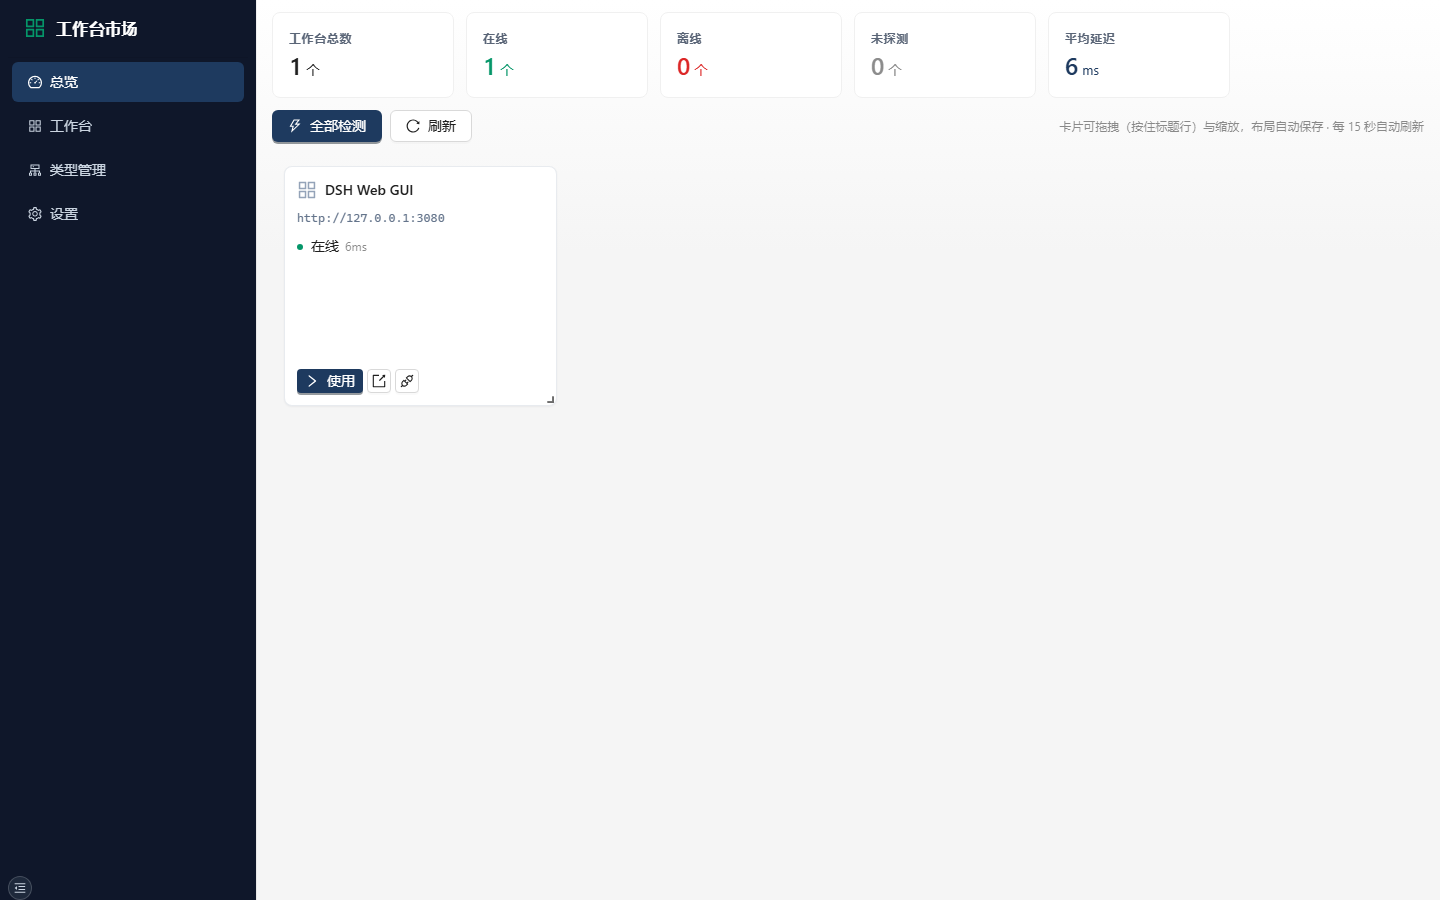
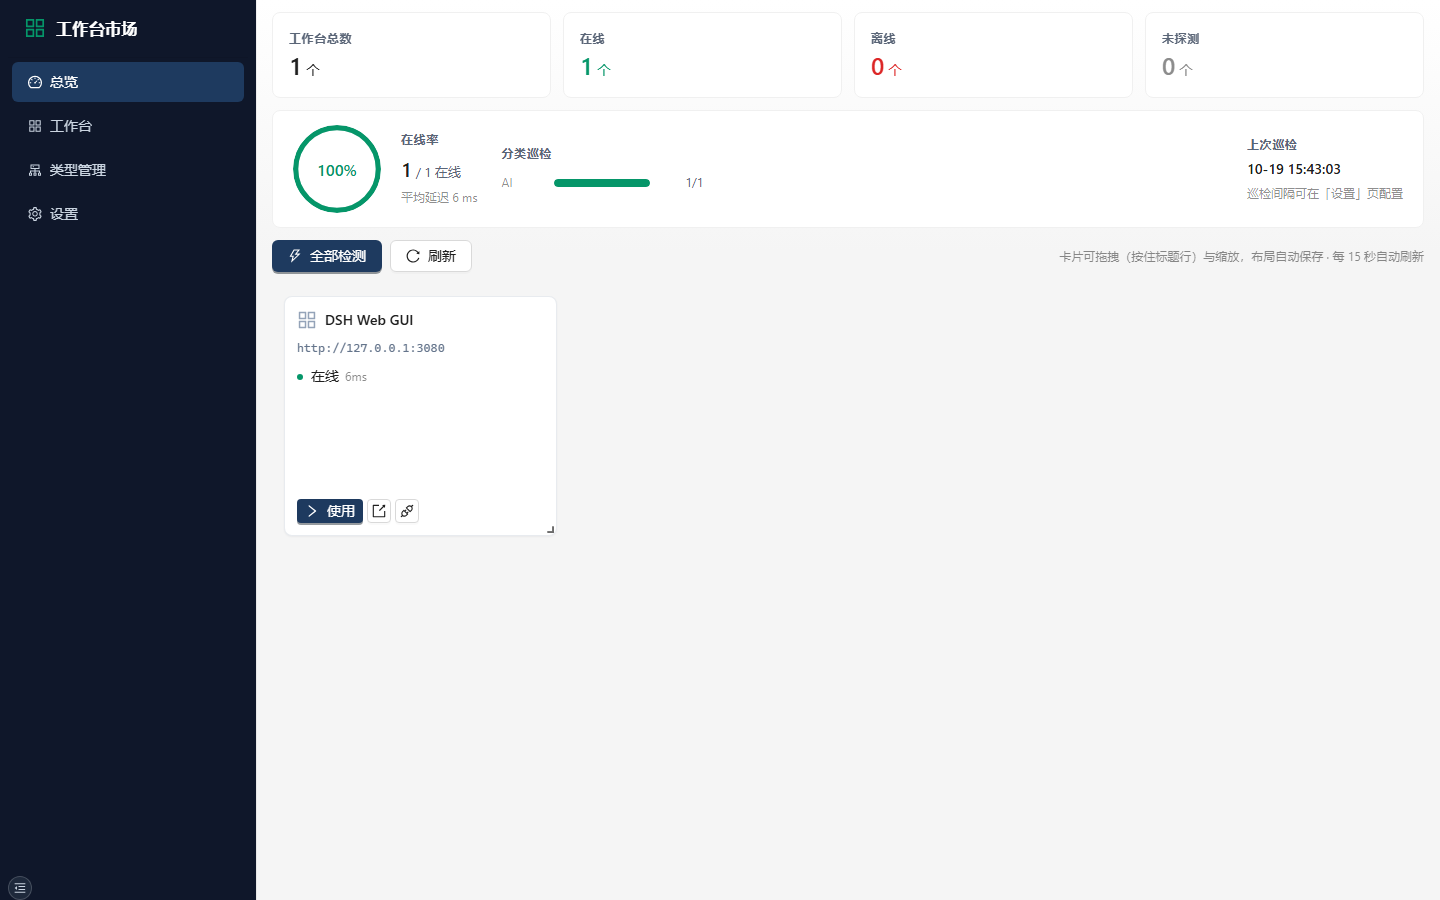
feat(dashboard): 总览页信息架构重构——统计卡可点击深链 + 全宽数据卡
- 4 张统计卡（总数/在线/离线/未探测）点击跳转 /market?status=up|down|unknown，
  role=button + 键盘 Enter/Space 可达 + :focus-visible 焦点环，悬停 emerald 描边
- 新增全宽数据卡：在线率 Progress 环 + 平均延迟 + 分类巡检 mini 进度条 + 上次巡检时间
- Market 支持 ?status= 深链参数初始化过滤（up/down/unknown 白名单）
- E2E 14/14 PASS；antd lint 0 告警

diff --git a/web/src/pages/Dashboard.tsx b/web/src/pages/Dashboard.tsx
@@ -1,7 +1,7 @@
 import { useMemo, useState } from 'react';
-import { Link } from 'react-router-dom';
+import { Link, useNavigate } from 'react-router-dom';
 import { useRequest } from 'ahooks';
-import { App, Button, Card, Col, Empty, Row, Space, Tag, Tooltip, Typography } from 'antd';
+import { App, Button, Card, Col, Empty, Flex, Progress, Row, Space, Tag, Tooltip, Typography } from 'antd';
 import { ApiOutlined, AppstoreOutlined, ExportOutlined, ReloadOutlined, RightOutlined, ThunderboltOutlined } from '@ant-design/icons';
 import { Responsive, WidthProvider } from 'react-grid-layout';
 import type { Layout, Layouts } from 'react-grid-layout';
@@ -9,7 +9,7 @@ import 'react-grid-layout/css/styles.css';
 import 'react-resizable/css/styles.css';
 import { api } from '../api';
 import type { Workbench } from '../types';
-import StatusBadge from '../components/StatusBadge';
+import StatusBadge, { fmtCheckedAt } from '../components/StatusBadge';
 
 const ResponsiveGridLayout = WidthProvider(Responsive);
 const LAYOUT_KEY = 'wm.dashboard.layouts.v2';
@@ -55,15 +55,13 @@ function reconcile(items: Workbench[], saved: Layouts | null): Layouts {
 
 export default function Dashboard() {
   const { message } = App.useApp();
+  const navigate = useNavigate();
   const [checking, setChecking] = useState(false);
   const [busyId, setBusyId] = useState<number | null>(null);
   const [savedLayouts, setSavedLayouts] = useState<Layouts | null>(() => loadSaved());
 
   const summary = useRequest(api.summary, { pollingInterval: 15000 });
-  const list = useRequest(() => api.listWorkbenches(), {
-    pollingInterval: 15000,
-    onSuccess: () => undefined,
-  });
+  const list = useRequest(() => api.listWorkbenches(), { pollingInterval: 15000 });
   const items = list.data ?? [];
 
   const layouts = useMemo(() => reconcile(items, savedLayouts), [items, savedLayouts]);
@@ -99,24 +97,42 @@ export default function Dashboard() {
   };
 
   const s = summary.data;
+  const total = s?.total ?? 0;
+  const rate = total ? Math.round(((s?.up ?? 0) / total) * 100) : 0;
+  const lastChecked = items.reduce<string>(
+    (max, w) => (w.last_checked_at && w.last_checked_at > max ? w.last_checked_at : max),
+    '',
+  );
+  const cats = Object.entries(s?.categories ?? {}).sort((a, b) => b[1].total - a[1].total);
+
+  const go = (to: string) => () => navigate(to);
+  const onStatKey = (to: string) => (e: React.KeyboardEvent) => {
+    if (e.key === 'Enter' || e.key === ' ') {
+      e.preventDefault();
+      navigate(to);
+    }
+  };
 
   return (
     <div style={{ display: 'flex', flexDirection: 'column', gap: 12 }}>
       <Row gutter={12}>
         {[
-          { title: '工作台总数', value: s?.total ?? 0, suffix: '个', color: '#1F1F1F' },
-          { title: '在线', value: s?.up ?? 0, suffix: '个', color: '#059669' },
-          { title: '离线', value: s?.down ?? 0, suffix: '个', color: '#DC2626' },
-          { title: '未探测', value: s?.unknown ?? 0, suffix: '个', color: '#8C8C8C' },
-          {
-            title: '平均延迟',
-            value: s?.avg_latency_ms ?? '-',
-            suffix: s?.avg_latency_ms != null ? 'ms' : '',
-            color: '#1E3A5F',
-          },
+          { title: '工作台总数', value: s?.total ?? 0, suffix: '个', color: '#1F1F1F', to: '/market' },
+          { title: '在线', value: s?.up ?? 0, suffix: '个', color: '#059669', to: '/market?status=up' },
+          { title: '离线', value: s?.down ?? 0, suffix: '个', color: '#DC2626', to: '/market?status=down' },
+          { title: '未探测', value: s?.unknown ?? 0, suffix: '个', color: '#8C8C8C', to: '/market?status=unknown' },
         ].map((it) => (
-          <Col key={it.title} xs={12} md={8} lg={4} xl={4} xxl={4}>
-            <Card size="small" styles={{ body: { padding: '12px 16px' } }}>
+          <Col key={it.title} xs={12} md={6}>
+            <Card
+              size="small"
+              className="wm-stat-card"
+              role="button"
+              tabIndex={0}
+              aria-label={`${it.title}：点击跳转列表`}
+              onClick={go(it.to)}
+              onKeyDown={onStatKey(it.to)}
+              styles={{ body: { padding: '12px 16px' } }}
+            >
               <div style={{ padding: '2px 0' }}>
                 <span className="wm-stat-label">{it.title}</span>
                 <div className="wm-num" style={{ color: it.color, fontSize: 24, fontWeight: 600, lineHeight: 1.4 }}>
@@ -128,6 +144,69 @@ export default function Dashboard() {
           </Col>
         ))}
       </Row>
+
+      <Card size="small" styles={{ body: { padding: '14px 20px' } }}>
+        <Flex justify="space-between" align="center" gap={24} wrap>
+          <Flex align="center" gap={20}>
+            <Progress
+              type="circle"
+              size={88}
+              percent={rate}
+              strokeColor="#059669"
+              trailColor="#E5E7EB"
+              format={() => (
+                <span className="wm-num" style={{ fontSize: 16, fontWeight: 600 }}>
+                  {rate}%
+                </span>
+              )}
+            />
+            <Flex vertical gap={4}>
+              <span className="wm-stat-label">在线率</span>
+              <span className="wm-num" style={{ fontSize: 20, fontWeight: 600 }}>
+                {s?.up ?? 0}
+                <span style={{ fontSize: 13, fontWeight: 400, color: '#5A6577' }}> / {total} 在线</span>
+              </span>
+              <Typography.Text type="secondary" style={{ fontSize: 12 }}>
+                平均延迟{' '}
+                <span className="wm-num">{s?.avg_latency_ms != null ? `${s.avg_latency_ms} ms` : '—'}</span>
+              </Typography.Text>
+            </Flex>
+          </Flex>
+
+          <Flex vertical gap={8} style={{ flex: 1, minWidth: 240 }}>
+            <span className="wm-stat-label">分类巡检</span>
+            <Flex wrap gap="8px 24px">
+              {cats.map(([name, c]) => (
+                <Flex key={name || '未分类'} align="center" gap={8}>
+                  <Typography.Text type="secondary" style={{ width: 72, fontSize: 12 }} ellipsis={{ tooltip: name || '未分类' }}>
+                    {name || '未分类'}
+                  </Typography.Text>
+                  <Progress
+                    percent={c.total ? Math.round((c.up / c.total) * 100) : 0}
+                    size={{ width: 96 }}
+                    strokeColor="#059669"
+                    showInfo={false}
+                  />
+                  <span className="wm-num" style={{ fontSize: 12, color: '#5A6577' }}>
+                    {c.up}/{c.total}
+                  </span>
+                </Flex>
+              ))}
+              {cats.length === 0 ? <Typography.Text type="secondary" style={{ fontSize: 12 }}>暂无分类数据</Typography.Text> : null}
+            </Flex>
+          </Flex>
+
+          <Flex vertical gap={4} style={{ minWidth: 150 }}>
+            <span className="wm-stat-label">上次巡检</span>
+            <span className="wm-num" style={{ fontSize: 14, fontWeight: 600 }}>
+              {lastChecked ? fmtCheckedAt(lastChecked) : '尚未巡检'}
+            </span>
+            <Typography.Text type="secondary" style={{ fontSize: 12 }}>
+              巡检间隔可在「设置」页配置
+            </Typography.Text>
+          </Flex>
+        </Flex>
+      </Card>
 
       <Space style={{ justifyContent: 'space-between', width: '100%' }}>
         <Space>

diff --git a/web/src/pages/Market.tsx b/web/src/pages/Market.tsx
@@ -1,5 +1,5 @@
 import { useEffect, useMemo, useRef, useState } from 'react';
-import { Link } from 'react-router-dom';
+import { Link, useSearchParams } from 'react-router-dom';
 import { App, Button, Drawer, Descriptions, Empty, Flex, Input, Popconfirm, Select, Space, Switch, Tag, Tooltip, Typography } from 'antd';
 import { CopyOutlined, ExportOutlined, PlusOutlined, RightOutlined, ThunderboltOutlined } from '@ant-design/icons';
 import type { ActionType, ProColumns } from '@ant-design/pro-components';
@@ -27,7 +27,16 @@ export default function Market() {
   const [detail, setDetail] = useState<Workbench | null>(null);
   const [checkingAll, setCheckingAll] = useState(false);
   const [busyId, setBusyId] = useState<number | null>(null);
-  const [filters, setFilters] = useState({ q: '', type: 'all', category: 'all', status: 'all' });
+  const [searchParams] = useSearchParams();
+  const [filters, setFilters] = useState(() => {
+    const sp = searchParams.get('status');
+    return {
+      q: '',
+      type: 'all',
+      category: 'all',
+      status: sp === 'up' || sp === 'down' || sp === 'unknown' ? sp : 'all',
+    };
+  });
 
   useEffect(() => {
     api.listTypes().then(setTypes).catch(() => undefined);

diff --git a/web/src/index.css b/web/src/index.css
@@ -166,3 +166,17 @@ body {
   gap: 8px;
   max-width: 100%;
 }
+
+/* ---------- 总览统计卡：可点击 deep-link，悬停描 emerald 边 + 焦点环 ---------- */
+.wm-stat-card {
+  cursor: pointer;
+  transition: border-color 0.2s ease, box-shadow 0.2s ease;
+}
+.wm-stat-card.ant-card:hover {
+  border-color: rgba(5, 150, 105, 0.45);
+  box-shadow: 0 4px 12px rgba(15, 23, 42, 0.08);
+}
+.wm-stat-card:focus-visible {
+  outline: 2px solid rgba(5, 150, 105, 0.6);
+  outline-offset: 1px;
+}
